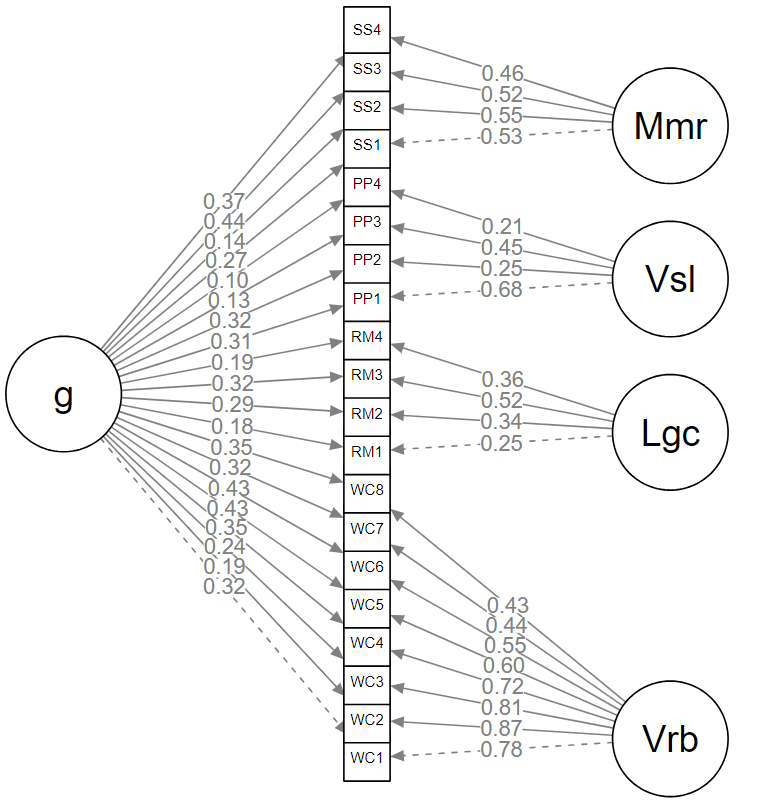
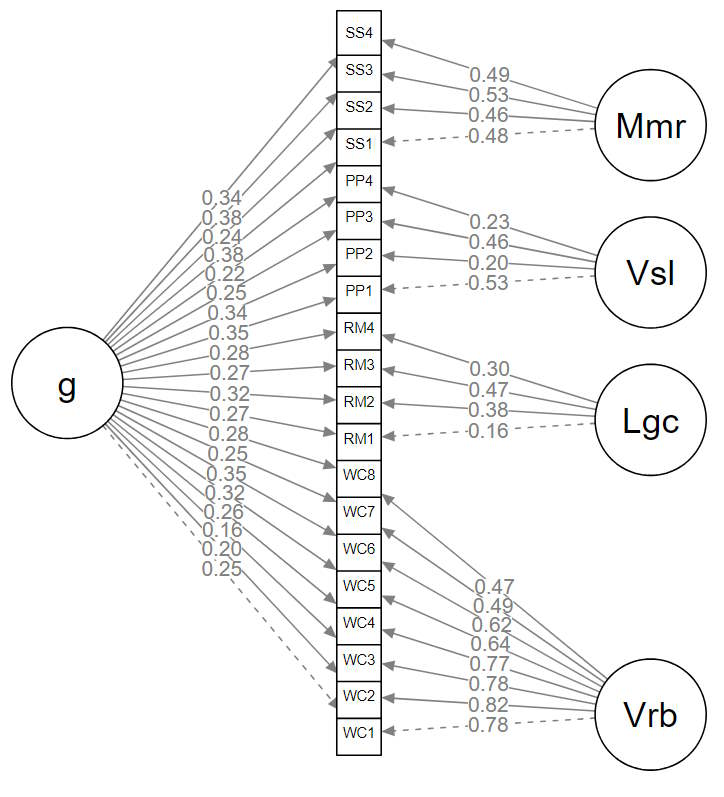
:zap: recalc w/ more data

diff --git a/README.md b/README.md
@@ -1,5 +1,20 @@
 # Factor Analysis of [Wordcel.org](https://wordcel.org)'s ***[Rapid Battery](https://wordcel.org/rapid-battery/test)***
 
-# G-loading: 0.77
+# G-loading: 0.64
+
+**Goodness-of-fit metrics (n=336)**
+
+[[❌](https://emojipedia.org/cross-mark)] P(χ²): 0.025
+[[❌](https://emojipedia.org/cross-mark)] GFI: 0.948
+[✔] AGFI: 0.927
+[✔] NFI: 0.905
+[✔] NNFI/TLI: 0.974
+[✔] CFI: 0.98
+[✔] RMSEA: 0.027
+[✔] RMR: 0.031
+[✔] SRMR: 0.047
+[[❌](https://emojipedia.org/cross-mark)] RFI: 0.88
+[✔] IFI: 0.98
+[✔] PNFI: 0.714
 
 ![image](plot2.jpg)
